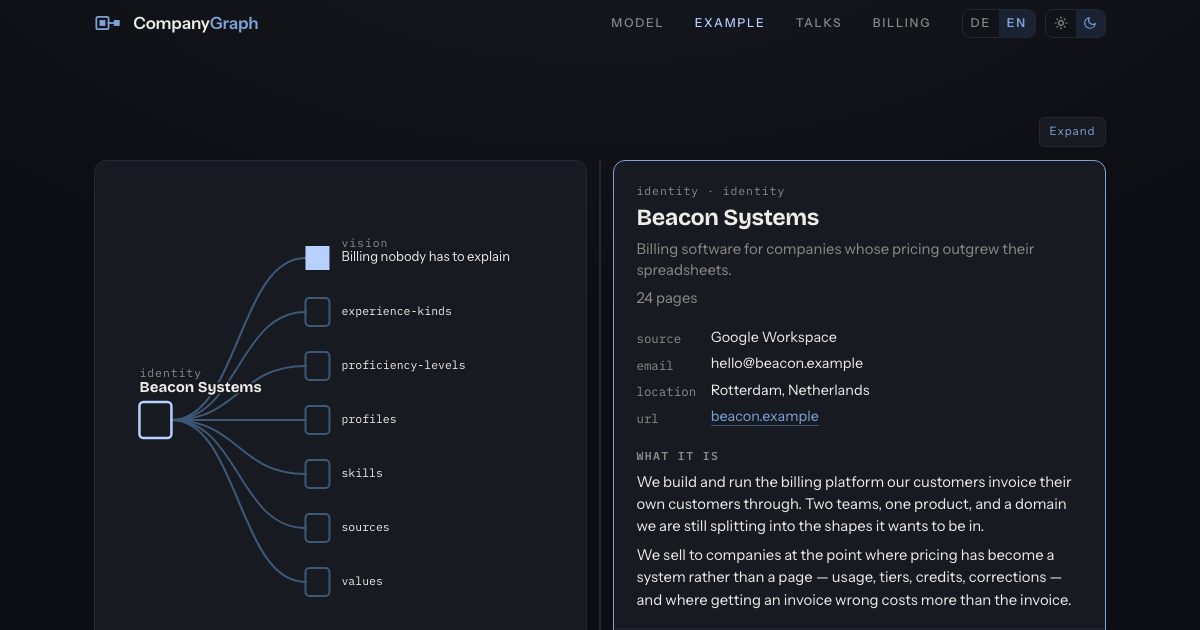
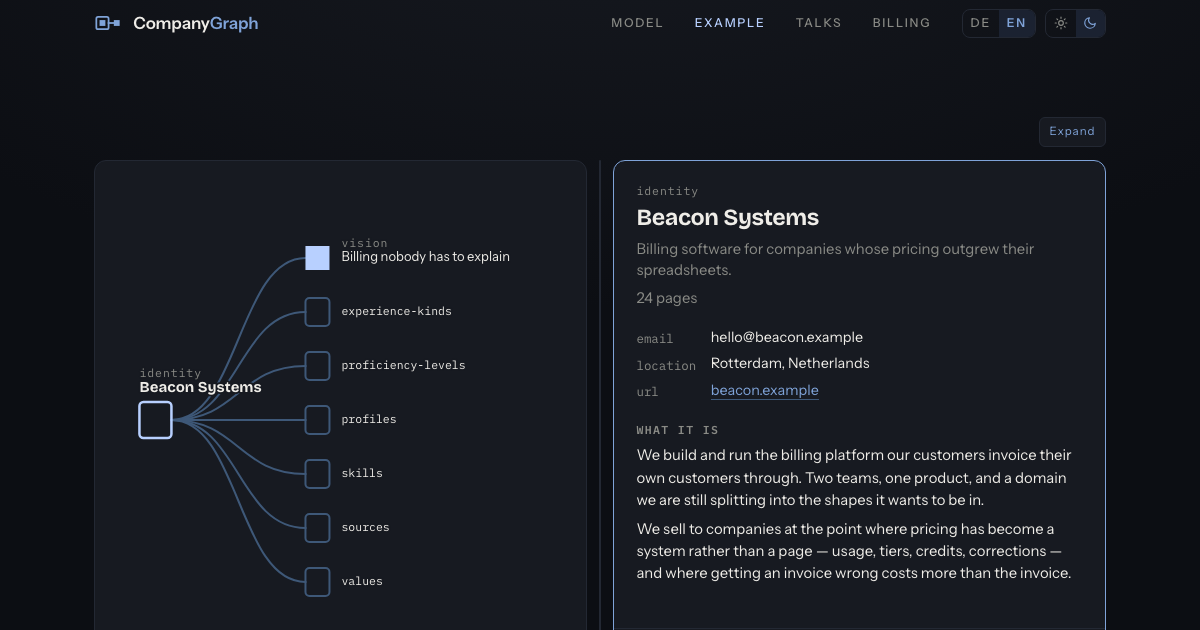
Design 0.31.0: the card names its type, drops source and groups its skills last
The shared card changes and the model and example pages draw it: no path in the eyebrow,
no source row, the skills as a grouped last section with chips, alphabetical at both
levels. The share cards of the pages whose recipe names card.js re-render.

Verified: npm run verify passes; npm run og:check passes.

Changed region(s): [[0.5242, 0.573, 0.8942, 0.9651], [0.5858, 0.5127, 0.7092, 0.5429], [0.5242, 0.5127, 0.555, 0.5429]]

diff --git a/card.js b/card.js
@@ -16,8 +16,10 @@
 //     have to read the same, and one copy is the only way that stays true.
 (function(){
   var STR = {
-    view: { en:"View this file on GitHub", de:"Diese Datei auf GitHub ansehen" },
-    now:  { en:"present",                 de:"heute" }
+    view:   { en:"View this file on GitHub", de:"Diese Datei auf GitHub ansehen" },
+    now:    { en:"present",                 de:"heute" },
+    skills: { en:"Skills",                  de:"Fähigkeiten" },
+    other:  { en:"Other",                   de:"Weitere" }
   };
   // A date is drawn as prose, not as the ISO the model stores, so the months travel with the
   // script the way every other word here does. The three lengths are core's three precisions:
@@ -86,11 +88,18 @@
     var data = opts.data, lang = opts.lang === "de" ? "de" : "en", link = opts.link;
     function ref(name){ var id = resolve(data, name); return id && link ? link(id) : document.createTextNode(name); }
     clear(bodyEl); clear(footEl);
-    bodyEl.appendChild(h("div", e.type + " · " + e.id, "eyebrow"));
+    // The type alone. The path used to follow it, and it was the longest line on the card
+    // for the least information: the foot names the file, and on the model page the path
+    // line above the drawing already says where you are.
+    bodyEl.appendChild(h("div", e.type, "eyebrow"));
     bodyEl.appendChild(h("h3", e.name));
     if (e.tagline) bodyEl.appendChild(h("p", e.tagline, "tag"));
     if (opts.note) bodyEl.appendChild(h("p", opts.note, "empty"));
-    var keys = Object.keys(e.fields);
+    // Two fields are not drawn in the list. `source` says where the page is mastered, and
+    // in an instance that masters itself it reads the same on every page — machinery, not a
+    // fact a reader came for. `skills` is a list of references out of the file, and it is
+    // the card's last section, grouped, rather than a field row: see below.
+    var keys = Object.keys(e.fields).filter(function(k){ return k !== "source" && k !== "skills"; });
     if (keys.length) {
       var dl = h("dl");
       keys.forEach(function(k){
@@ -144,6 +153,44 @@
         } else bodyEl.appendChild(para(par.replace(/\n/g, " ")));
       });
     });
+    // Skills last, and grouped. Each skill file names a `group`, and the card reads it off
+    // the entity a name resolves to. A group is a closed disclosure — its name and its count
+    // on the line, its skills as chips when opened — so a role claiming forty-five skills is
+    // ten lines rather than forty-five. Alphabetical at both levels, the groups and the chips
+    // inside them: one rule a reader can predict, and one that knows no name from any page,
+    // where the file's own order would put a different group first on every card. A skill whose file
+    // names no group, or that resolves to no file, is filed under "Other", last; a model
+    // whose skills carry no groups at all gets the flat list under the heading.
+    var skills = e.fields.skills;
+    if (Array.isArray(skills) && skills.length) {
+      bodyEl.appendChild(h("h4", STR.skills[lang]));
+      var groups = [], byGroup = {}, any = false;
+      skills.forEach(function(name){
+        var id = resolve(data, name), ent = id && data.entities.filter(function(x){ return x.id === id; })[0];
+        var g = ent && ent.fields && ent.fields.group;
+        if (g) any = true; else g = null;
+        var key = g || "\u0000other";
+        if (!byGroup[key]) { byGroup[key] = []; groups.push(key); }
+        byGroup[key].push(name);
+      });
+      if (!any) {
+        var flat = h("ul", null, "items");
+        skills.forEach(function(name){ var li = h("li"); li.appendChild(ref(name)); flat.appendChild(li); });
+        bodyEl.appendChild(flat);
+      } else {
+        var grps = h("div", null, "grps");
+        groups.filter(function(k){ return k !== "\u0000other"; }).sort(function(x, y){ return x.localeCompare(y, "en"); })
+          .concat(byGroup["\u0000other"] ? ["\u0000other"] : []).forEach(function(key){
+          var d = h("details", null, "grp"), s = h("summary", key === "\u0000other" ? STR.other[lang] : key);
+          s.appendChild(h("span", String(byGroup[key].length), "n"));
+          var chips = h("div", null, "chips");
+          byGroup[key].slice().sort(function(x, y){ return x.localeCompare(y, "en"); })
+            .forEach(function(name){ chips.appendChild(ref(name)); });
+          d.appendChild(s); d.appendChild(chips); grps.appendChild(d);
+        });
+        bodyEl.appendChild(grps);
+      }
+    }
     // Mono, so it is data: the file and the commit it is pinned at, which is what the link
     // resolves to. The phrasing a reader needs is on the label, not in the row.
     var a = h("a", e.path.slice(e.path.lastIndexOf("/") + 1) + " @ " + data.commit.slice(0, 7));

diff --git a/stage.css b/stage.css
@@ -113,6 +113,28 @@
   .cbody dd ul.items{list-style:none; margin:0; padding:0; display:flex;
                      flex-direction:column; gap:.28rem}
   .cbody .empty{color:var(--dim); line-height:1.5}
+  /* The skills section: one closed group per category, the category's name and its count on
+     the line, its skills as chips when opened. A chip is one bordered token per reference,
+     wrapping, each with an edge a pointer can find; the border is the rule and the text the
+     interactive stop. Used for a set of references and for nothing else, or the card grows a
+     second card style. The triangle is the disclosure's own mark, drawn in the candidate
+     blue and turned when open. */
+  .cbody .grps{margin-top:.5rem; display:flex; flex-direction:column; gap:.2rem}
+  .cbody .grp > summary{cursor:pointer; list-style:none; display:flex; align-items:baseline; gap:.5rem; padding:.1rem 0; font-size:.93rem}
+  .cbody .grp > summary::-webkit-details-marker{display:none}
+  .cbody .grp > summary::before{content:""; width:0; height:0; border-style:solid; border-width:4px 0 4px 6px;
+                                border-color:transparent transparent transparent var(--c-weak); flex:0 0 auto; transition:transform .15s ease}
+  .cbody .grp[open] > summary::before{transform:rotate(90deg); border-left-color:var(--c-mid)}
+  .cbody .grp > summary:hover{color:var(--c-mid)}
+  .cbody .grp > summary:focus-visible{outline:2px solid var(--c-mid); outline-offset:2px; border-radius:3px}
+  .cbody .grp > summary .n{font-family:"Plex Mono",monospace; font-size:.74rem; color:var(--dim); letter-spacing:.06em}
+  .cbody .grp > .chips{display:flex; flex-wrap:wrap; gap:.4rem .45rem; padding:.3rem 0 .55rem 1.1rem}
+  .cbody .chips a{font-size:.86rem; line-height:1.25; padding:.26rem .6rem; border-radius:6px; border:1px solid var(--rule);
+                  color:var(--c-mid); text-decoration:none}
+  .cbody .chips a:hover, .cbody .chips a:focus-visible{border-color:var(--c-mid)}
+  @media (prefers-reduced-motion: reduce){
+    .cbody .grp > summary::before{transition:none}
+  }
   @media (max-width: 860px){
     /* minmax(0,1fr), never a bare 1fr: a grid track sized `auto` at its floor takes the
        widest min-content of the items in it, and the card's is a table of quoted field
@@ -204,6 +226,9 @@
   .ledger .body{padding:.3rem 0 1.3rem calc(var(--when) + 1.25rem + 1.6rem + var(--lvl,0) * 1.5rem); max-width:calc(72ch + 12rem)}
   .ledger .body .card{height:auto}
   .ledger .body .cbody{overflow:visible}
+  /* The row leads the card: inside a ledger the card's title steps down to the row's scale,
+     the way the dialog sets the card's width. The card stays the same card. */
+  .ledger .cbody h3{font-size:1.2rem}
   .ledger .now{margin-top:.6rem; padding-left:calc(var(--when) + 1.25rem + 1.6rem); font-family:"Plex Mono",monospace; font-size:.72rem; letter-spacing:.08em; text-transform:uppercase; color:var(--dim)}
   @media (max-width:640px){
     .ledger{--when:4.2rem}
